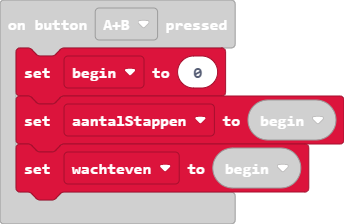
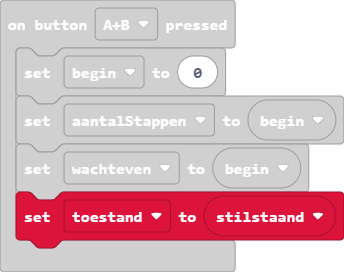
Update main.blocks, main.ts

diff --git a/main.ts b/main.ts
@@ -8,6 +8,7 @@ input.onButtonPressed(Button.AB, function () {
     begin = 0
     aantalStappen = begin
     wachteven = begin
+    toestand = stilstaand
 })
 let wachteven = 0
 let versnelling = 0
@@ -17,7 +18,8 @@ let x = 0
 let begin = 0
 let aantalStappen = 0
 let stilstaand = 0
-let toestand = stilstaand
+let toestand = 0
+toestand = stilstaand
 let onderDrempel = 800
 let bovenDrempel = 1400
 aantalStappen = begin
